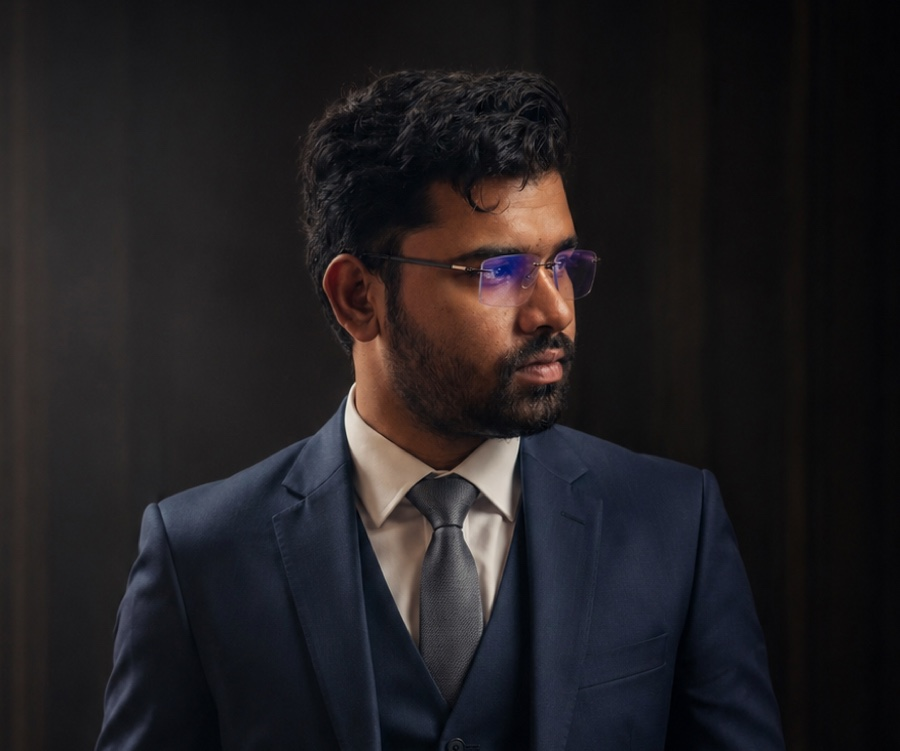
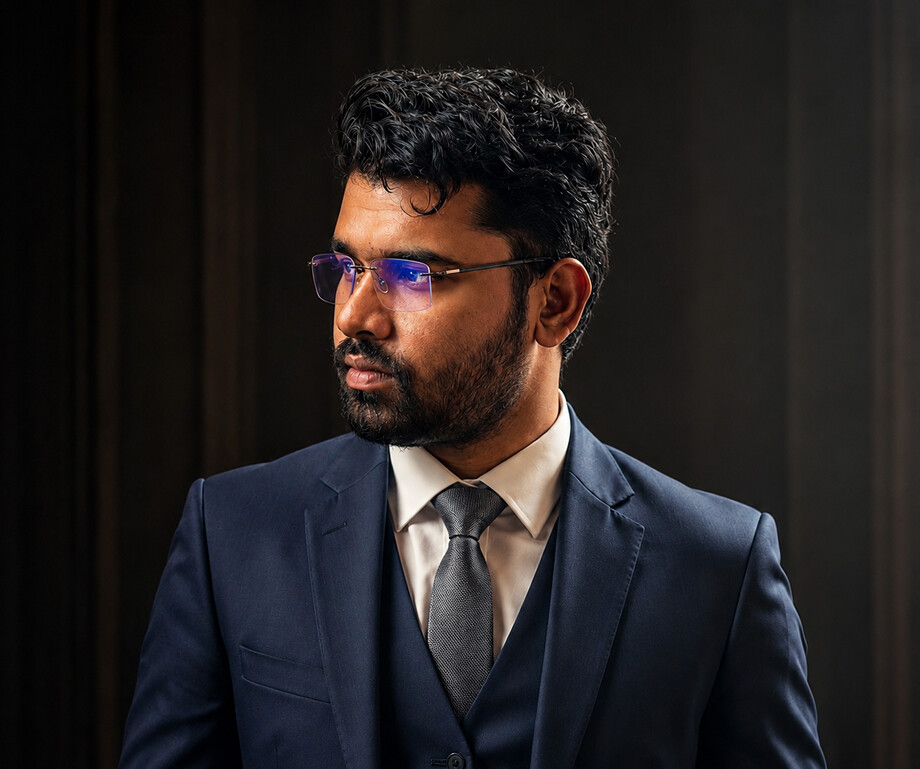
Use enhanced high-resolution headshot
Swap in the sharper ChatGPT-enhanced portrait (1372x1147), mirrored so the gaze leads into the copy, and refresh the Open Graph card to match.

diff --git a/components/sections/Hero.tsx b/components/sections/Hero.tsx
@@ -109,8 +109,8 @@ export function Hero() {
               <Image
                 src="/headshot.png"
                 alt={hero.photoAlt}
-                width={1754}
-                height={1464}
+                width={1372}
+                height={1147}
                 quality={90}
                 priority
                 sizes="(min-width: 1024px) 37rem, 88vw"